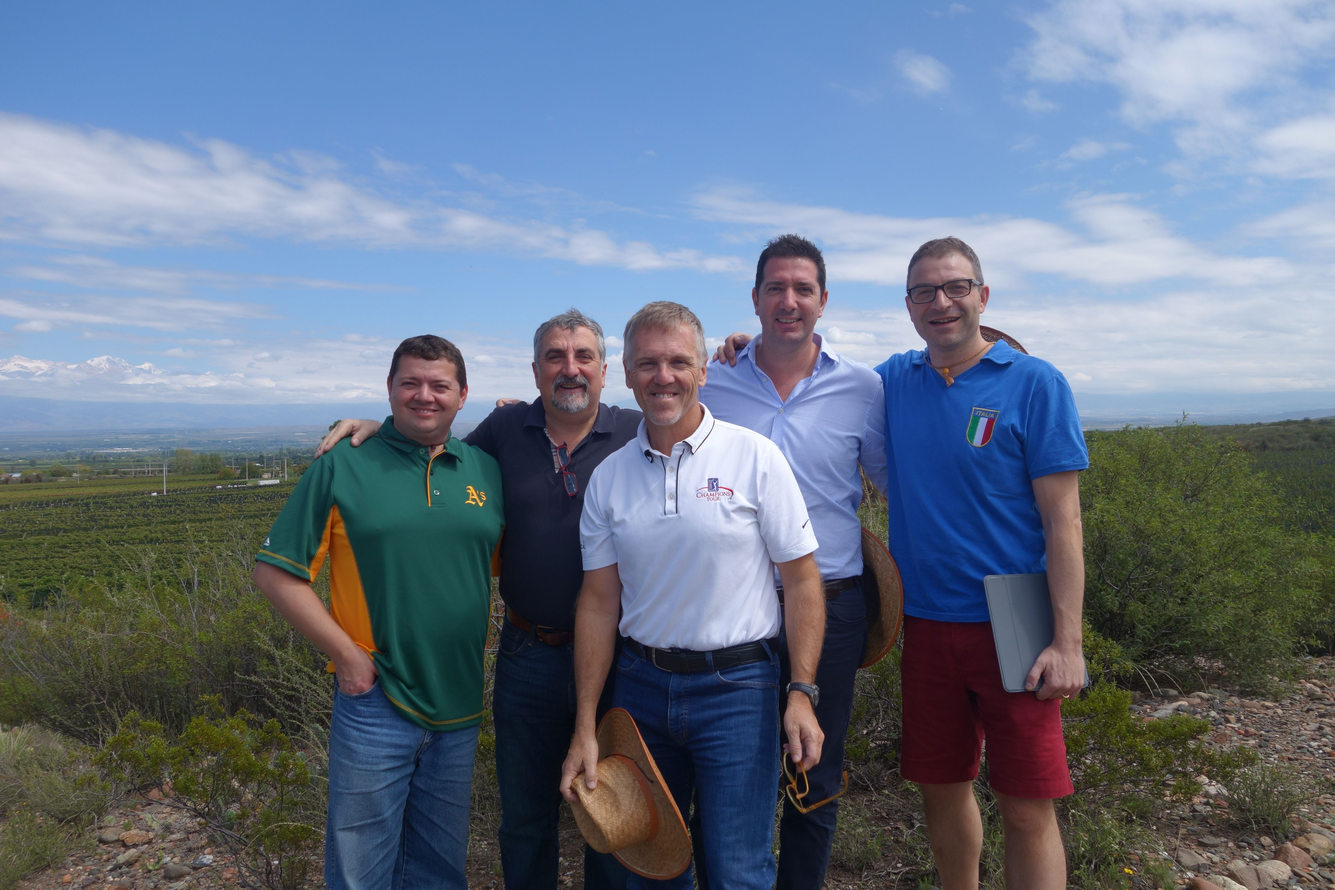
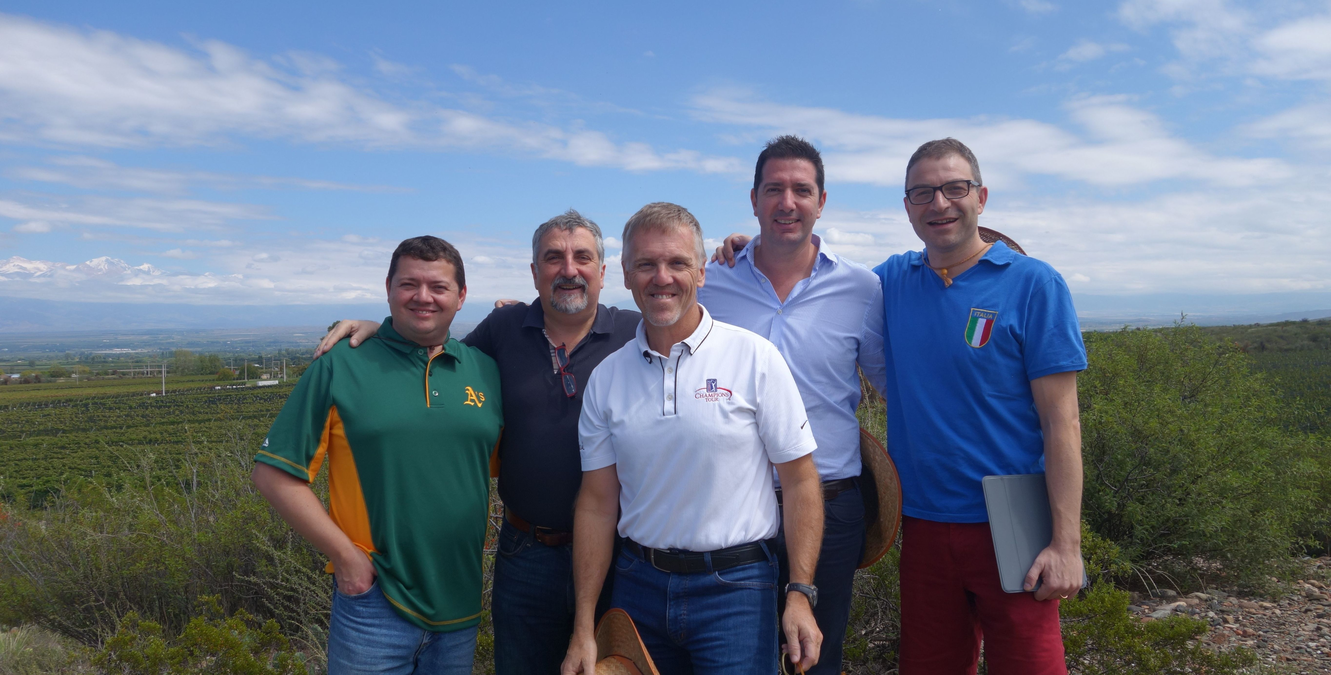
changed size of images for carousel etc

diff --git a/app/assets/stylesheets/common.scss b/app/assets/stylesheets/common.scss
@@ -130,6 +130,7 @@ footer a:hover {
 
 .carousel img {
 width: 100%;
+height: 620px !important;
 }
 
 
